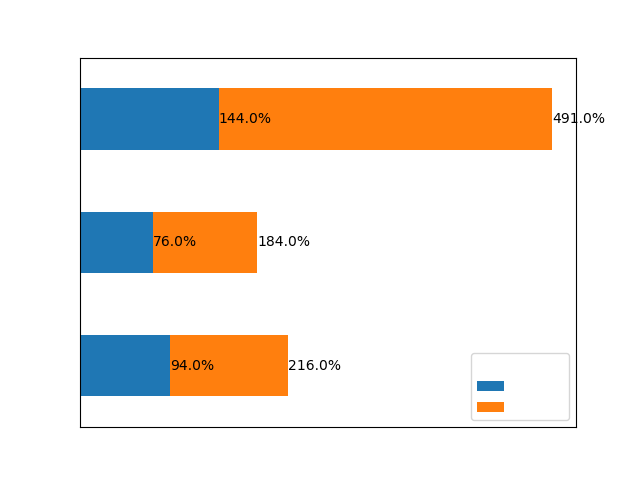
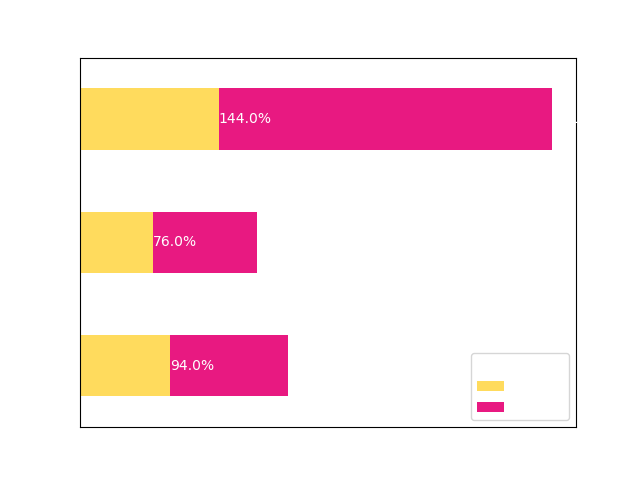
theming Stella's code and figures

diff --git a/Titanic/test.py b/Titanic/test.py
@@ -34,20 +34,27 @@ class_genders = titanic_data.groupby(['Pclass', 'Sex']).size().unstack()
 
 # Plotting survival rates by class
 plt.bar(class_survival.index, class_survival, color=['#FFDB5D','#94EE6B','#E81981'])
-plt.title('Survival Rates by Class',font=fpath)
-plt.xlabel('Passenger Class',font=fpath)
-plt.ylabel('Survival Rate',font=fpath)
-plt.xticks(rotation=0,font=fpath)
-plt.yticks(font=fpath)
-plt.savefig('test.png', transparent=True)
+plt.title('Survival Rates by Class')
+plt.xlabel('Class')
+plt.ylabel('Survival Rate')
+
+# Adding percentage labels to the survival rates by class 
+for p in plt.gca().containers:
+    plt.gca().bar_label(p, color='white', fmt='%.2f%%')
+    
+plt.savefig('Figure_12.png', transparent=True)
 plt.show()
 
+
 # Plotting genders by class
-class_genders.plot(kind='bar', stacked=True, color=['#E81981','#FFDB5D'])
-plt.title('Genders by Class',font=fpath)
-plt.xlabel('Passenger Class',font=fpath)
-plt.ylabel('Count',font=fpath)
-plt.xticks(rotation=0,font=fpath)
-plt.yticks(font=fpath)
-plt.savefig('test2.png', transparent=True)
+class_genders.plot(kind='barh', stacked=True, color=['#FFDB5D','#E81981'])
+plt.title('Genders by Class')
+plt.xlabel('Count')
+plt.ylabel('Class')
+
+# Adding percentage labels to the genders by class 
+for p in plt.gca().containers:
+    plt.gca().bar_label(p, color='white', fmt='%.1f%%')
+
+plt.savefig('Figure_13.png', transparent=True)
 plt.show()
